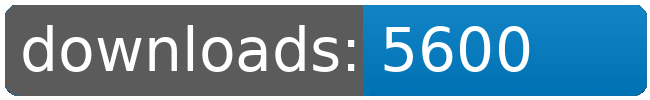
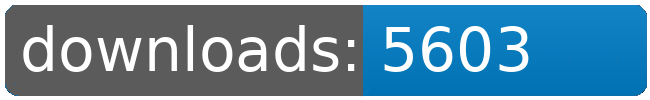
dl log written

Changed region(s): [[0.7692, 0.24, 0.8308, 0.72]]

diff --git a/README.md b/README.md
@@ -21,8 +21,8 @@
 		<td>5493</td>
 		<td>5531</td>
 		<td>5577</td>
-		<td>5600</td>
-		<td>+ 23</td>
+		<td>5603</td>
+		<td>+ 26</td>
 	</tr>
 	<tr>
 		<td>Factory.Outlets</td>
@@ -109,8 +109,8 @@
 		<td></td>
 		<td></td>
 		<td></td>
-		<td>44183</td>
-		<td>126</td>
+		<td>44186</td>
+		<td>129</td>
 	</tr>
 </table>
 </sub></sup>
@@ -157,8 +157,8 @@
 		<td>5493</td>
 		<td>5531</td>
 		<td>5577</td>
-		<td>5600</td>
-		<td>+ 23</td>
+		<td>5603</td>
+		<td>+ 26</td>
 	</tr>
 	<tr>
 		<td>Korunak.Defense.Drones</td>
@@ -223,8 +223,8 @@
 		<td></td>
 		<td></td>
 		<td></td>
-		<td>44183</td>
-		<td>126</td>
+		<td>44186</td>
+		<td>129</td>
 	</tr>
 </table>
 </sub></sup>
